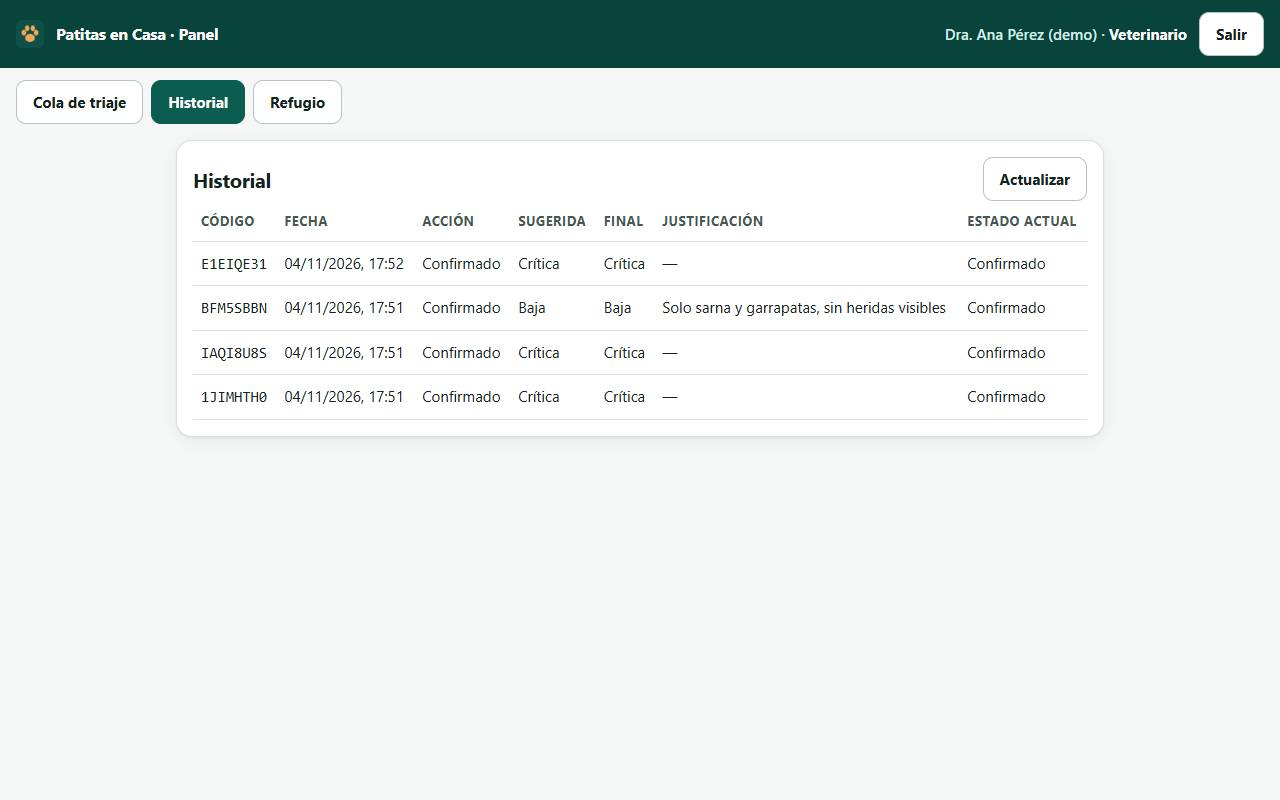
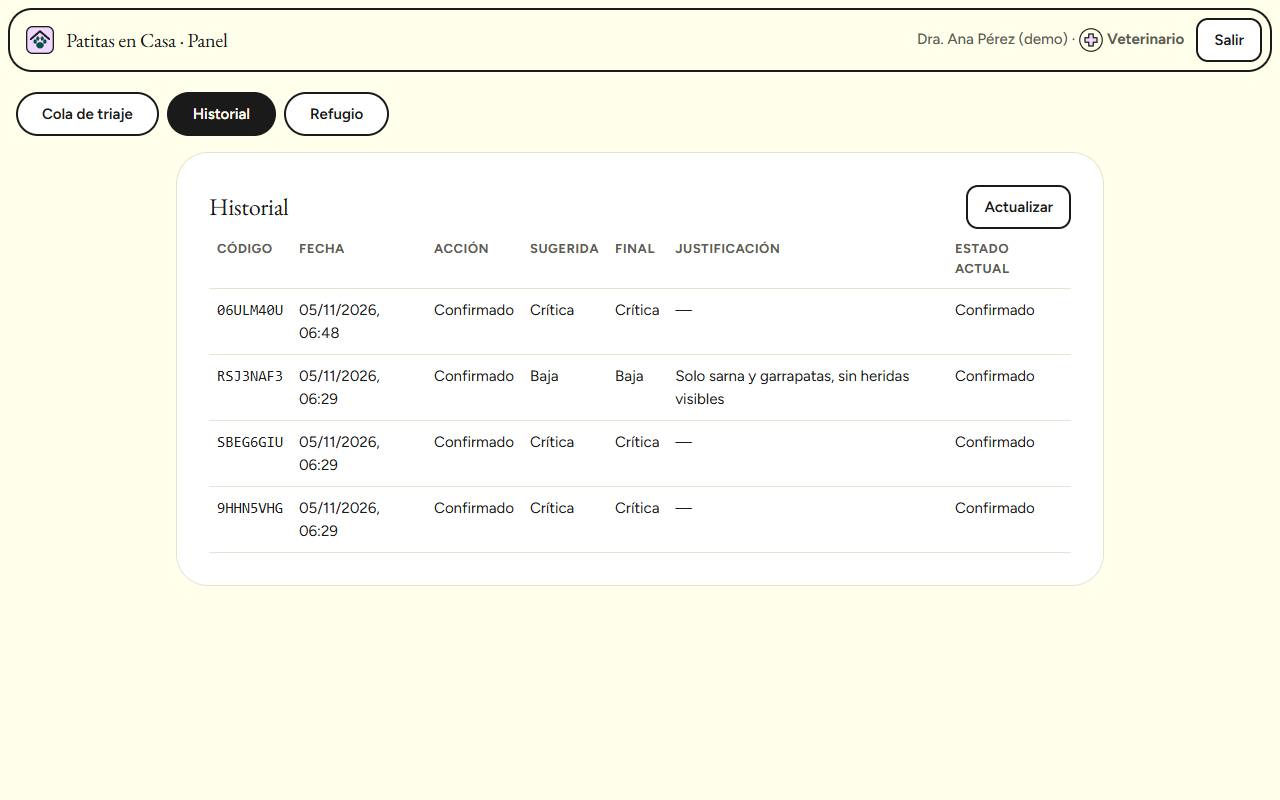
docs: cierre del rediseño: manual con capturas nuevas, estado y cifras del CI (#326)

diff --git a/ESTADO_PROYECTO.md b/ESTADO_PROYECTO.md
@@ -13,6 +13,28 @@ El repositorio es **privado**: no hay `--auto`; unir solo con `gh pr checks` en 
 - Historial del veterinario (#218), «Mis rescates» del rescatista (#220) y hora de llegada (#222).
 - Póster de Ingeniería de Software II terminado.
 
+## Hecho el 5 de noviembre de 2026 (noche: rediseño visual)
+
+Toda la interfaz con el sistema visual de `DESIGN.md` (crema, tinta, lavanda; EB Garamond y
+Figtree locales; bordes de 2 px y radios grandes; sin sombras). Cambió la apariencia, no los
+flujos ni las reglas RN. Guía con los valores reales: `docs/tesis/guia-estilo.md`.
+
+| Tarea | PR | Resultado |
+|---|---|---|
+| Página de inicio y fuentes locales | #294, #295 | Fuentes OFL en `app/diseno/fuentes/` (44 KB); la CSP no cambia |
+| Tokens compartidos | #297, #299 | `--pc-*` → `--ds-*` en `app/diseno/sistema.css`; gris de la referencia oscurecido a `#5c5c54` por contraste |
+| PWA | #301 | Fuentes también sin señal (service worker) |
+| Panel: estructura y cada rol | #305, #309, #311, #315, #318, #319 | Prioridad con forma ▲◆●○ y barra (no solo color, WCAG 1.4.1); tablas como tarjetas en el celular |
+| Ilustraciones SVG propias | #320, #321 | Ícono de la app, 7 íconos por rol, portada y estados vacíos; SW `v10` |
+| Correos HTML | #312 | `multipart/alternative` con el texto de siempre; sin imágenes ni rastreo; RN-14 y `html.escape` |
+| Regresión visual | #322 | 16 capturas base (`e2e/capturas/`), 1 % de tolerancia, en el job `e2e` |
+| Guía de estilo y sustentación | #323, #325 | Contrastes medidos; preguntas 61 a 70 y recorrido de 5 min con el diseño nuevo |
+| Cierre | #327 | Manual con capturas nuevas y cifras del CI en `docs/tesis/pruebas.md` |
+
+Números de la suite al cerrar (CI de `main`, commit 8094ad4, run 42021806974): **980 pytest,
+97,48 % de cobertura, 68 Vitest, 25 e2e (9 del flujo + 16 de regresión visual), axe-core 56
+revisiones sin fallas, Lighthouse 100 en las 4 pantallas públicas**.
+
 ## Hecho el 5 de noviembre de 2026 (tercera sesión autónoma: pendientes y preguntas)
 
 | Tarea | PR | Resultado |
@@ -85,6 +107,9 @@ y capturas; los scripts de diagnóstico `scripts/accesibilidad/_*.mjs` no se sub
   evitar conflictos.
 - **5-nov (tercera sesión)**: nada falló dos veces. Los issues #282 a #285 no se cerraron solos
   porque los PR decían «Cierra #N» (GitHub solo entiende *Closes/Fixes*); se cerraron a mano.
+- **5-nov (noche)**: los PR #314 y #317 estaban hechos sobre ramas viejas o apiladas y no se podía
+  reescribir su rama (sin `push --force`); se rehicieron sobre `main` como #323 y #322 y los viejos
+  se cerraron. La captura del análisis de video del manual no se retomó (necesita el nodo).
 
 ## Pendiente de código
 Nada abierto. Queda listo para activar, si Brayan lo decide: P-12, P-16, P-17 (A-04) y P-18 (A-09).

diff --git a/docs/manual-usuario.md b/docs/manual-usuario.md
@@ -18,7 +18,7 @@ atender. Este manual explica, con capturas, qué hace cada persona en el sistema
 | [Administrador](#administrador) | Botón «Entrar como personal» | Sí |
 | [Alcaldía](#alcaldía) | Botón «Entrar como personal» | Sí, la crea el administrador |
 
-Las capturas se tomaron el 4 de noviembre de 2026 con los **datos de demostración** (nombres,
+Las capturas se tomaron el 5 de noviembre de 2026, con el diseño nuevo, y los **datos de demostración** (nombres,
 reportes y animales inventados). El ciudadano, el rescatista y el adoptante se muestran en el
 celular (390 px); los demás, en un computador.
 
@@ -92,8 +92,10 @@ artificial **sugiere**, pero **el veterinario decide**.
 ![Cola de triaje](manual/05-veterinario-cola.jpg)
 
 Al entrar ve la **cola**: los reportes que esperan revisión, primero los más graves
-(crítica, alta, media, baja). El número al lado es la confianza de la sugerencia (de 0 a 1).
-**Actualizar** trae los reportes nuevos.
+(crítica, alta, media, baja). Cada prioridad se reconoce por su nombre y su forma, no solo por
+el color: ▲ crítica, ◆ alta, ● media y ○ baja; las críticas y altas llevan además una barra
+gruesa a la izquierda. Al lado se ve hace cuánto llegó el reporte; la confianza de la sugerencia
+(de 0 a 1) aparece al abrirlo. **Actualizar** trae los reportes nuevos.
 
 ### 2. Revisar un reporte
 
@@ -165,7 +167,8 @@ Voluntario que va por el animal. Usa el panel **desde el celular**.
 1. En **Mi disponibilidad** marca **Disponible para rescates** cuando pueda salir.
 2. En **Zona** marca las comunas donde puede ir. Si no marca ninguna, recibe toda la ciudad.
 3. En **Ofertas de rescate** aparecen los casos críticos y altos ya confirmados por el
-   veterinario, con la comuna (la dirección exacta se ve al aceptar). Toca **Aceptar rescate**
+   veterinario, con la comuna (la dirección exacta se ve al aceptar) y la misma forma de la
+   prioridad (▲ crítica, ◆ alta). Toca **Aceptar rescate**
    en el que vaya a atender. Solo una persona puede aceptar cada rescate, y cada rescatista
    atiende uno a la vez.
 
@@ -319,5 +322,7 @@ npm ci
 PATITAS_DEMO_CONTRASENA=<la misma de la instancia> node capturas.mjs http://127.0.0.1:8010
 ```
 
-En Windows con Edge, agrega `A11Y_CANAL=msedge`. El script acepta un rescate y registra un
+En Windows con Edge, agrega `A11Y_CANAL=msedge`. La captura del análisis de video
+(`06c-veterinario-video.jpg`) solo se retoma con el trabajador de video encendido; la del 5 de
+noviembre conserva la anterior. El script acepta un rescate y registra un
 resultado: úsalo solo en una base de prueba.

diff --git a/docs/tesis/pruebas.md b/docs/tesis/pruebas.md
@@ -17,6 +17,7 @@ el CI en verde (`gh pr checks`).
 | API | Caja negra: solo HTTP, sin mirar el código | `fastapi.testclient` | Códigos 200/201/401/403/404/409/413/422/429 de cada endpoint y su contenido | `test_api*.py`, `test_video_api.py`… |
 | Interfaz (unidad) | Caja blanca de funciones puras del panel | Vitest | Mensajes, navegación por rol, clientes de la API | `panel/src/*.test.ts` |
 | Punta a punta | Caja negra en un navegador real | Playwright | Flujo completo ciudadano → veterinario → rescatista → coordinador → seguimiento, y errores | `e2e/flujo.spec.mjs` |
+| Regresión visual | Comparación con capturas base | Playwright `toHaveScreenshot` | 16 pantallas a 360 y 1440 px; falla si cambia más del 1 % | `e2e/aspecto.spec.mjs` |
 | Accesibilidad | Automática | axe-core y Lighthouse | Todas las pantallas, cada rol, modo claro y oscuro | `scripts/accesibilidad/revisar.mjs` |
 | Seguridad | Estática y dinámica | gitleaks, Ruff, OWASP ZAP | Secretos en el historial, complejidad ≤ 10, cabeceras y riesgos altos | `ci.yml`, `zap.yml` |
 | Carga | Medición | `prueba_carga.py` | RNF-01 y RNF-14 en local | `scripts/operacion/` |
@@ -63,6 +64,24 @@ mutación), resultado **success**:
 | e2e (Playwright) | **9 pasaron** (incluye el modo piloto) | +1 |
 | axe-core | **56 revisiones, 0 fallas** (incluye «Modo piloto», claro y oscuro) | +6 revisiones |
 | Ruff y gitleaks | 0 errores, 0 secretos | — |
+
+### Corrida del 5 de noviembre de 2026, noche (después del rediseño)
+
+CI de `main` en el commit `8094ad4` (run `42021806974`, después del rediseño #294 a #325),
+resultado **success**:
+
+| Suite | Resultado | Cambio desde la corrida anterior (`fabd054`) |
+|-------|-----------|------------------------|
+| pytest | **980 pasaron**, 0 fallaron, 0 omitidas (3 min 30 s) | +62 (diseño, fuentes, ilustraciones, correos HTML) |
+| Cobertura | **97,48 %** (4 794 sentencias, 121 sin cubrir) | −0,01 puntos |
+| Vitest (panel) | **68 pasaron** en 10 archivos | +7 |
+| e2e (Playwright) | **25 pasaron**: 9 del flujo y 16 de regresión visual (`aspecto.spec.mjs`) | +16 |
+| axe-core | **56 revisiones, 0 fallas** (claro, oscuro y celular) | — |
+| Lighthouse | **100** en las 4 pantallas públicas | — |
+| Ruff y gitleaks | 0 errores, 0 secretos | — |
+
+La regresión visual compara 16 pantallas (inicio, PWA y una por rol, a 360 y 1440 px) con sus
+capturas base de `e2e/capturas/`, con tolerancia del 1 % de píxeles (`docs/aprende/e2e.md`).
 
 ### Pruebas de mutación (5 de noviembre de 2026, #272)
 

diff --git a/CHANGELOG.md b/CHANGELOG.md
@@ -5,6 +5,7 @@ Formato basado en *Keep a Changelog*; versiones según SemVer.
 ## [Sin publicar]
 
 ### Agregado
+- Cierre del rediseño (#326): el manual de usuario con las 20 capturas retomadas en el diseño nuevo (y el texto de la cola: prioridad por forma ▲◆●○ y barra), `ESTADO_PROYECTO.md` con la noche del 5 de noviembre y `docs/tesis/pruebas.md` con la corrida real del CI de `main` (980 pytest, 97,48 %, 68 Vitest, 25 e2e con 16 de regresión visual, axe-core 56/0).
 - Sustentación (#324): `docs/aprende/sustentacion.md` suma 10 preguntas sobre el rediseño (sistema visual compartido, fuentes locales y CSP, contraste medido, prioridad sin depender del color, SVG propios, correos HTML y regresión visual), cada una con su archivo, y el recorrido de 5 minutos muestra la portada en claro y oscuro, la prioridad con forma y la regresión visual en el CI.
 - Guía de estilo (#313) en `docs/tesis/guia-estilo.md`: paleta en tres capas con los contrastes medidos en claro y oscuro (los mismos que verifica `tests/test_diseno.py`), tipografía (EB Garamond y Figtree locales, tamaños con `clamp()`), espacios y radios, componentes (botones, campos, cabeceras, pestañas, insignias de prioridad con forma, tablas, cifras, estados vacíos), correos HTML, ilustraciones, reglas de accesibilidad y capturas de antes y después en `docs/tesis/guia-estilo/`.
 - Correos con diseño (#310): `app/notificaciones/plantilla.py` arma, desde el **mismo texto** de cada aviso, una versión HTML con el estilo de `DESIGN.md` (tablas y estilos en línea, 600 px máximo, Georgia en la marca y Arial en el texto, sin CSS ni fuentes externas, sin JavaScript, sin imágenes ni píxeles de rastreo): marca, mensaje, el código del reporte destacado, un botón (al seguimiento `/app/#estado/CÓDIGO` para el ciudadano; al panel para el personal) y pie «Patitas en Casa · Cúcuta». SMTP y Mailjet envían **multipart/alternative** con el texto plano de siempre; el asunto no cambia y el contrato del outbox (#63) tampoco. No agrega datos (RN-14) y todo pasa por `html.escape`. `PATITAS_URL_PUBLICA` (por defecto la URL de Render) da el enlace absoluto del botón.
